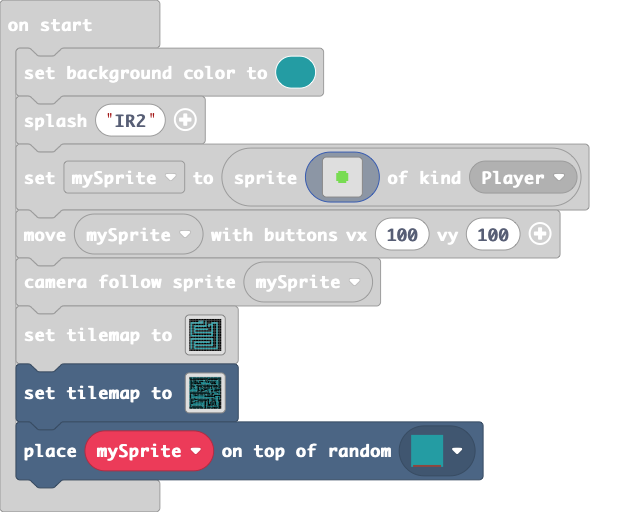
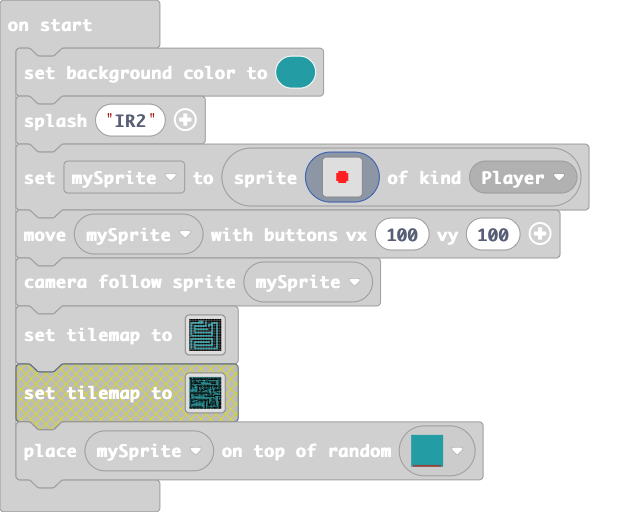
Update main.blocks, main.ts

Changed region(s): [[0.0, 0.6875, 0.78, 0.9688], [0.5304, 0.3125, 0.5616, 0.375]]

diff --git a/main.ts b/main.ts
@@ -50,12 +50,12 @@ mySprite = sprites.create(img`
     . . . . . . . . . . . . . . . . 
     . . . . . . . . . . . . . . . . 
     . . . . . . . . . . . . . . . . 
-    . . . . . . 7 7 7 7 . . . . . . 
-    . . . . . 7 7 7 7 7 7 . . . . . 
-    . . . . . 7 7 7 7 7 7 . . . . . 
-    . . . . . 7 7 7 7 7 7 . . . . . 
-    . . . . . 7 7 7 7 7 7 . . . . . 
-    . . . . . . 7 7 7 7 . . . . . . 
+    . . . . . . 2 2 2 2 . . . . . . 
+    . . . . . 2 2 2 2 2 2 . . . . . 
+    . . . . . 2 2 2 2 2 2 . . . . . 
+    . . . . . 2 2 2 2 2 2 . . . . . 
+    . . . . . 2 2 2 2 2 2 . . . . . 
+    . . . . . . 2 2 2 2 . . . . . . 
     . . . . . . . . . . . . . . . . 
     . . . . . . . . . . . . . . . . 
     . . . . . . . . . . . . . . . . 
@@ -65,5 +65,4 @@ mySprite = sprites.create(img`
 controller.moveSprite(mySprite)
 scene.cameraFollowSprite(mySprite)
 tiles.setTilemap(tilemap`level4`)
-tiles.setTilemap(tilemap`level13`)
 tiles.placeOnRandomTile(mySprite, assets.tile`myTile2`)
